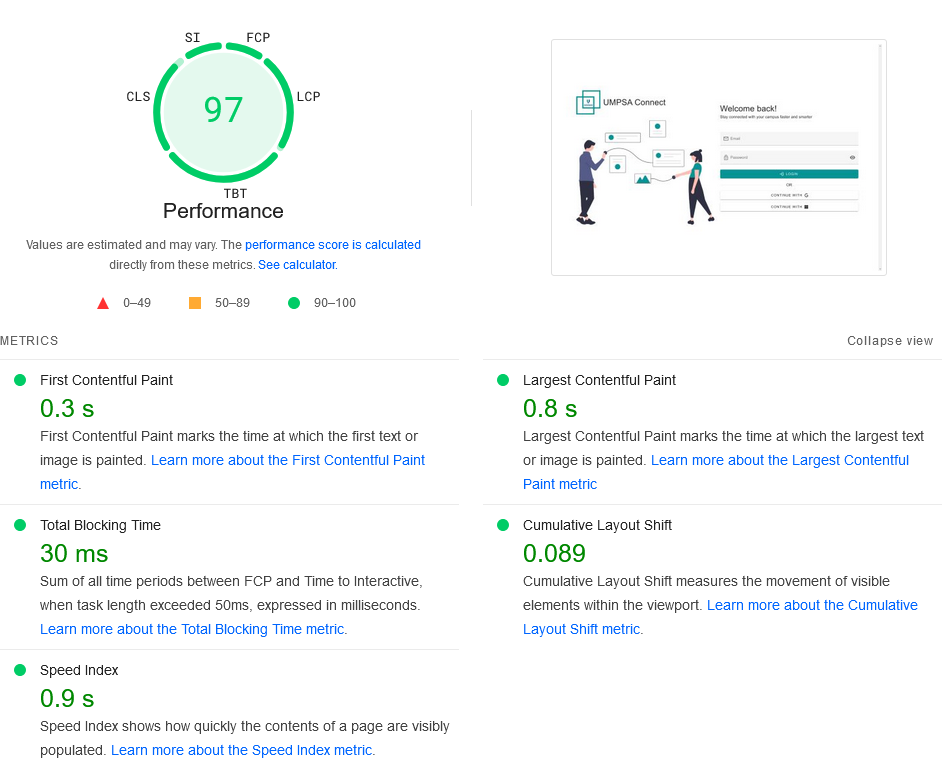
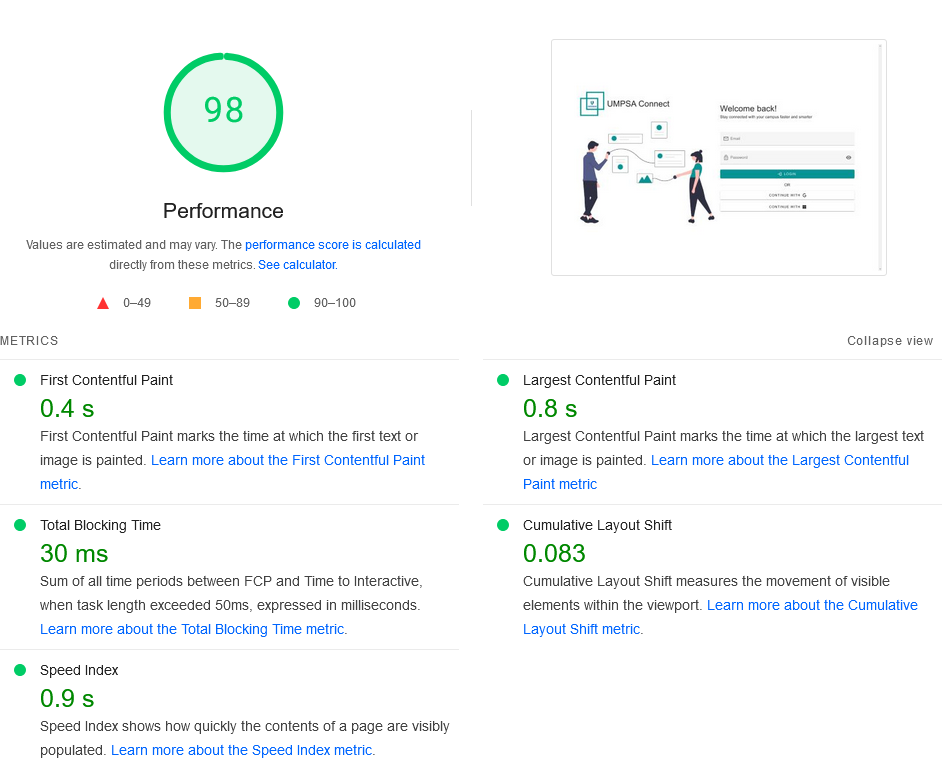
update performance test result

diff --git a/README.md b/README.md
@@ -18,4 +18,4 @@ UMPSA Connect has successfully passed all web security tests on the [Mozilla Dev
 
 ![performance_test.png](public/img/performance_test.png)
 
-UMPSA Connect scored 97 on [Google PageSpeed Insights](https://pagespeed.web.dev/), with key metrics like a First Contentful Paint of 0.3 seconds, Largest Contentful Paint of 0.8 seconds, and a Cumulative Layout Shift of 0.089. For detailed results, view the [Full Analysis Report](https://pagespeed.web.dev/analysis/https-umpsa-connect-vercel-app/l8slrdemln?form_factor=desktop).
+UMPSA Connect scored 98 on [Google PageSpeed Insights](https://pagespeed.web.dev/), with key metrics like a First Contentful Paint of 0.4 seconds, Largest Contentful Paint of 0.8 seconds, and a Cumulative Layout Shift of 0.083. For detailed results, view the [Full Analysis Report](https://pagespeed.web.dev/analysis/https-umpsa-connect-vercel-app/33s041z42e?form_factor=desktop).
